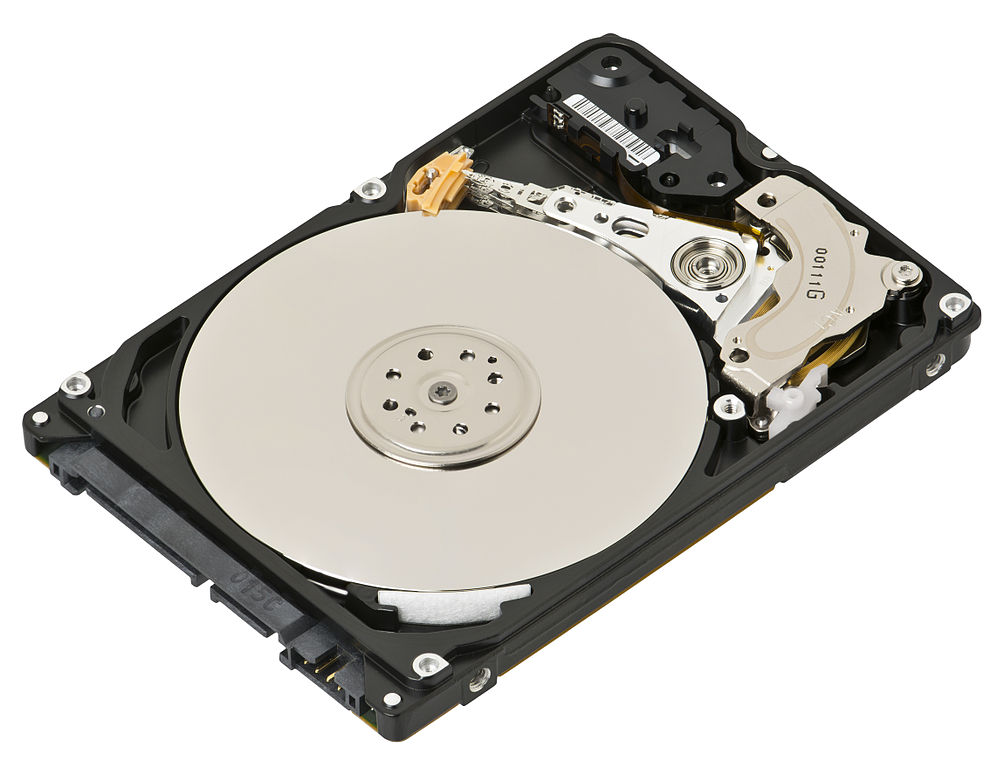
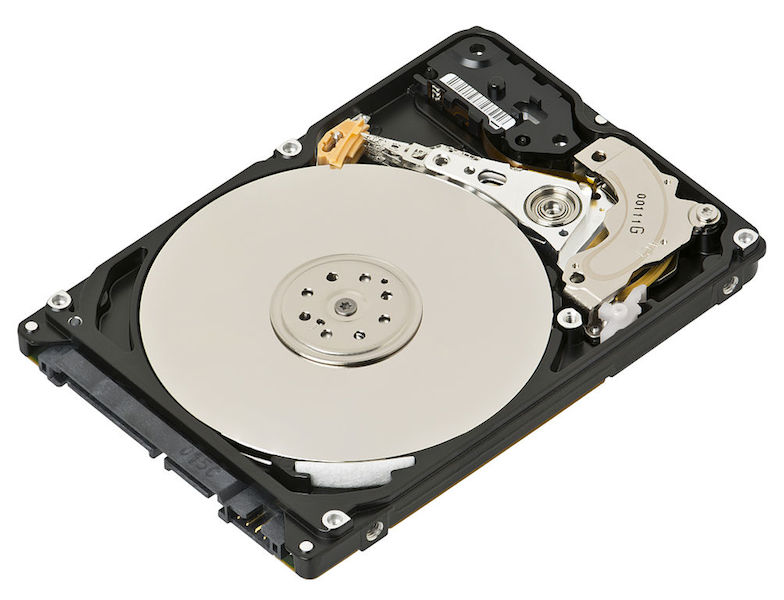
Making images smaller.

diff --git a/Taleb.md b/Taleb.md
@@ -97,15 +97,35 @@ Taleb, Nassim Nicholas (2010-05-04). The Black Swan: Second Edition: The Impact 
 
 ////
 
+Heath Ledger
+============
+
 ![](https://raw.github.com/jachin/cw-unconf-taleb/master/Heath_Ledger.jpg)
 
 ////
 
+Death
+=====
+
 ![](https://raw.github.com/jachin/cw-unconf-taleb/master/Death.jpg)
 
 ////
 
-![](https://raw.github.com/jachin/cw-unconf-taleb/master/Death.jpg)
+Michelle Williams
+=================
+
+![](https://raw.github.com/jachin/cw-unconf-taleb/master/MichelleWilliams.jpg)
+
+////
+
+Google Image Search
+===================
+
+![](https://raw.github.com/jachin/cw-unconf-taleb/master/Google.png)
+
+////
+
+![](https://raw.github.com/jachin/cw-unconf-taleb/master/minnpost.png)
 
 ////
 
